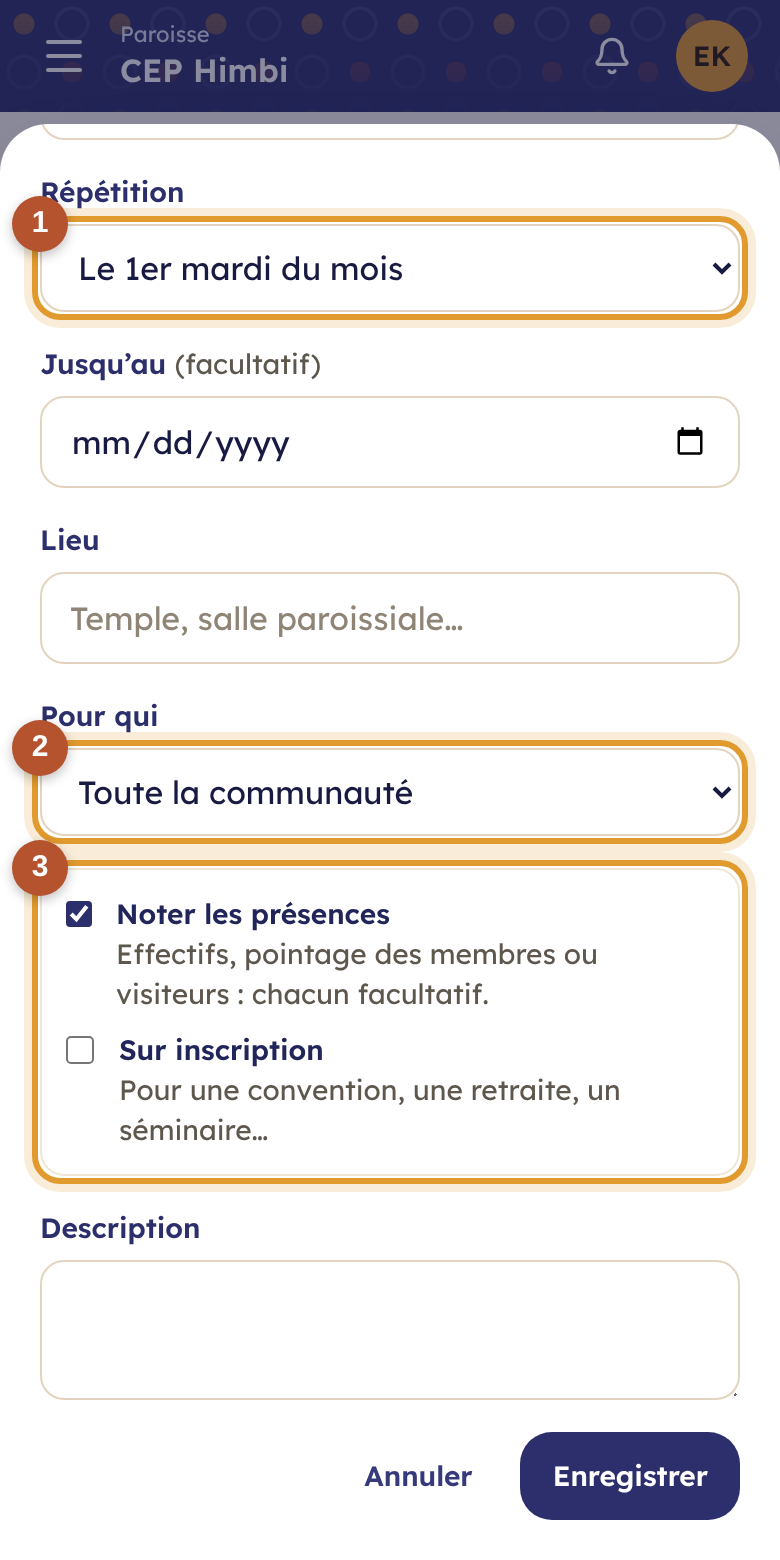
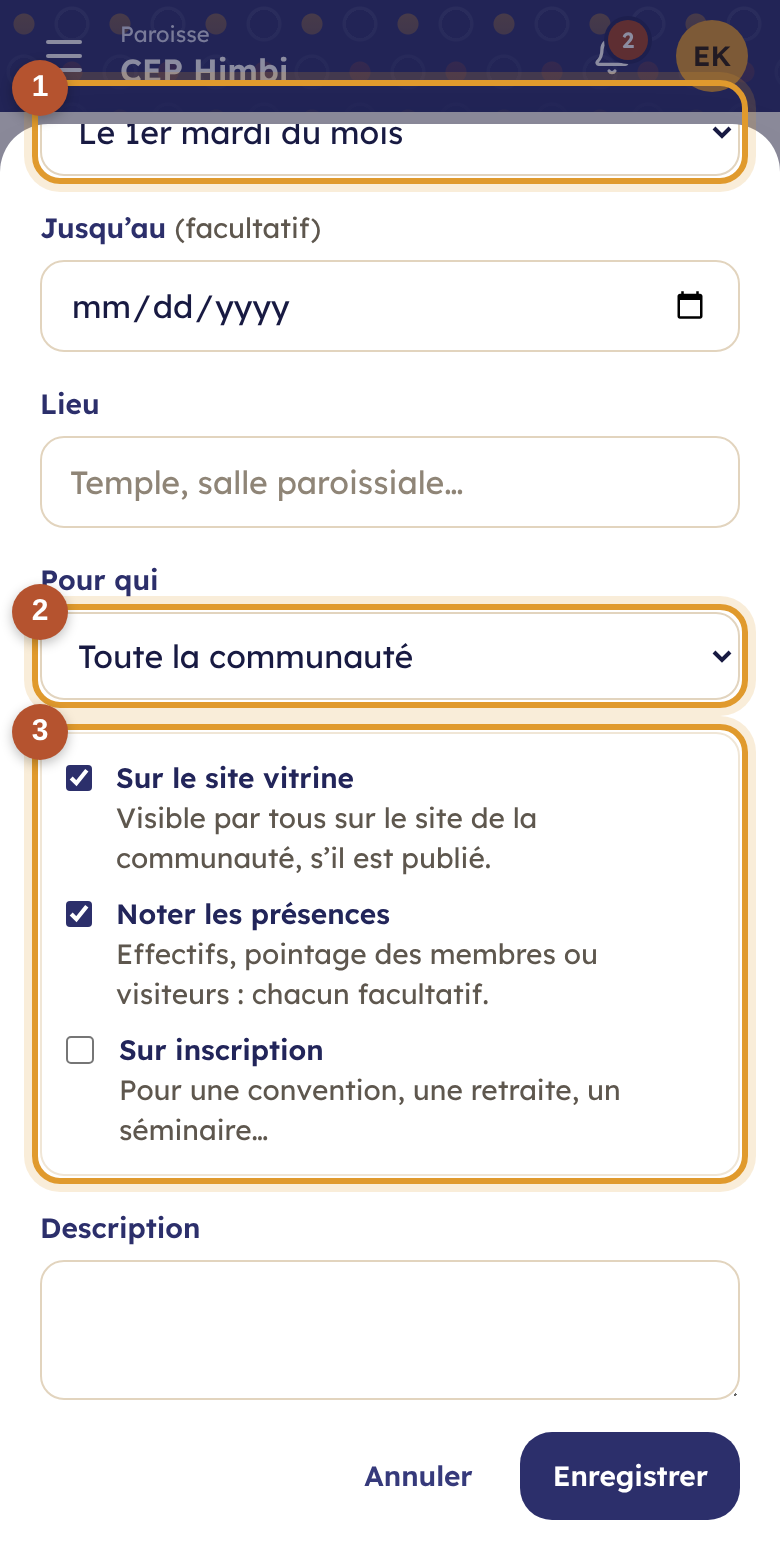
Feuille de route : sites vitrines livrés ; captures mises à jour
Claude-Session: https://claude.ai/code/session_01RmE888MJymYsdYztvNtvNP

Changed region(s): [[0.0, 0.0, 0.9846, 0.5846], [0.8615, 0.2769, 0.9538, 0.3385]]

diff --git a/docs/feuille-de-route.html b/docs/feuille-de-route.html
@@ -159,7 +159,7 @@ footer { margin-top: 56px; padding-top: 18px; border-top: 1px solid var(--line);
       <circle cx="80" cy="56" r="9" style="fill: var(--terra)"/>
     </svg>
     <span class="brand">waumini</span>
-    <span class="by">Genius ICT · Goma, Nord-Kivu<br>Mise à jour : octobre 2026, consolidation multi-paroisses livrée</span>
+    <span class="by">Genius ICT · Goma, Nord-Kivu<br>Mise à jour : octobre 2026, sites vitrines livrés</span>
   </header>
 
   <div class="hero">
@@ -282,10 +282,10 @@ const BLOCKS = [
       goal: "Le siège voit toutes ses paroisses sans ressaisie.",
       items: ["Consolidation à chaque niveau : membres et nouveaux membres, recettes, dépenses et solde en dollars, présence au culte, par mois ou par année", "Descente d’un niveau à l’autre, de la région au secteur puis à la paroisse, et retour par le fil", "Paroisses sans saisie depuis deux semaines repérées", "Quotes-parts propres à chaque niveau : pourcentage des recettes, montant fixe ou aucune, à partir d’un mois choisi", "Versement depuis la caisse de la paroisse, confirmation de réception par le niveau supérieur, chacun prévenu ; retirés des totaux pour ne rien compter deux fois", "Transferts de membres au sein de la dénomination : demandés par la paroisse de départ, acceptés ou refusés par celle d’arrivée ; nouveau numéro, ancien gardé ; l’espace membre suit", "1 nouveau chapitre du manuel"],
       demo: "Livré : la région Nord-Kivu voit ses quatre paroisses ; Himbi verse 10 % de ses recettes de septembre au secteur, qui confirme la réception ; un fidèle de Katindo déménage à Himbi avec sa fiche ; 212 tests automatiques." },
-    { status: "todo", title: "Sites vitrines",
+    { status: "done", title: "Sites vitrines",
       goal: "Chaque paroisse en ligne, sans rien saisir deux fois.",
-      items: ["Thèmes au choix, couleurs et logo de la communauté", "Pages activées par la communauté", "Horaires et événements alimentés par le calendrier", "Prédications : liens YouTube ou Facebook, audios légers, avec guide", "Déclaration de don par mobile money"],
-      demo: "Le site d’une paroisse mis à jour en changeant l’heure du culte." },
+      items: ["Un site par communauté, à son adresse (waumini.com/site/…), préparé en aperçu puis publié d’un geste", "Trois mises en page : Chaleureux (wax), Lumière (photo en grand), Solennel ; couleurs et logo de la communauté", "Pages choisies : programme, événements, annonces, prédications, qui sommes-nous, nos paroisses, dons, nous trouver", "Programme et événements tirés du calendrier, annonces choisies : une case « Sur le site vitrine » décide de ce qui est public", "Prédications : liens YouTube ou Facebook chargés seulement au toucher, audios légers jusqu’à 15 Mo, avec guide", "Dons par mobile money : numéros affichés, don déclaré avec l’ID de la transaction, vérifié par la trésorerie ; aussi depuis l’espace membre", "Bouton WhatsApp, itinéraire Google Maps, Facebook et YouTube ; 1 nouveau chapitre du manuel"],
+      demo: "Livré : la Paroisse de Himbi en ligne avec son programme, la convention des jeunes et trois prédications ; Katindo au pied du Nyiragongo ; le siège qui présente ses paroisses ; un don M-Pesa déclaré depuis un téléphone ; 221 tests automatiques." },
     { status: "doing", title: "Espace Genius ICT",
       goal: "Piloter la plateforme et accompagner les communautés.",
       items: ["Livré : vue d’ensemble, communautés, essais prolongés, suspension", "Livré : offres et tarifs datés ; nouveau prix pour les nouvelles souscriptions, et au renouvellement pour les abonnés", "Livré : paiements enregistrés (mobile money, référence), prix figé pour la période, délai de grâce puis lecture seule chaque matin", "Livré : coordonnées et numéro WhatsApp, conditions et confidentialité versionnées, équipe et rôles internes", "À venir : paiement déclaré par la communauté et validé, accès support autorisé et révocable, tickets de support"],
@@ -333,12 +333,16 @@ const DECISIONS = [
     "Un mois clôturé est verrouillé ; seul l’administrateur le rouvre, avec un motif conservé.",
     "La quote-part due au niveau supérieur dépend de chaque dénomination : pourcentage, montant fixe ou aucune (étape Consolidation)."
   ]],
-  ["Le réseau", [
+  ["Le réseau et les sites", [
     "Chaque niveau fixe la quote-part de ses niveaux directement en dessous ; elle vaut à partir du mois où elle est enregistrée.",
     "Les quotes-parts sont calculées sur les recettes propres du mois, hors quotes-parts reçues, et retirées des totaux consolidés.",
     "Le niveau supérieur consulte les chiffres de ses paroisses ; il ne modifie ni leur registre ni leur caisse.",
     "Un transfert de membre se fait au sein de la dénomination : la paroisse de départ le demande, celle d’arrivée l’accepte ; départements, groupes et ménage restent à la paroisse de départ.",
-    "Une paroisse est signalée en retard après deux semaines sans saisie."
+    "Une paroisse est signalée en retard après deux semaines sans saisie.",
+    "Sites vitrines : une adresse waumini.com/site/… pour chaque communauté ; un nom de domaine propre plus tard, selon l’offre LWS.",
+    "Ce qui paraît sur le site se décide activité par activité et annonce par annonce ; les activités de toute la communauté sont publiques d’office.",
+    "Les vidéos restent chez YouTube ou Facebook et ne se chargent qu’au toucher ; les audios sont limités à 15 Mo.",
+    "Un don déclaré sur le site n’entre en caisse qu’après vérification de l’ID de la transaction par la trésorerie."
   ]],
   ["Promesses", [
     "Une promesse peut porter sur un projet, une campagne, une contribution régulière ou une demande ponctuelle.",
